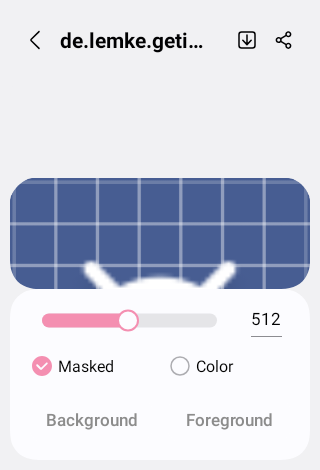
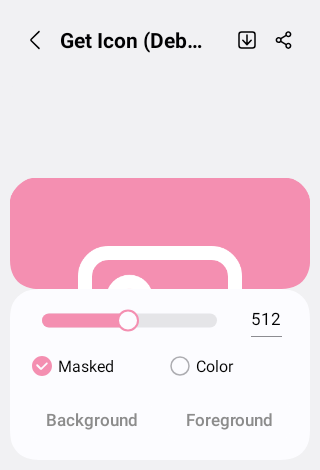
test: use PackageManager.getApplicationInfo in IconActivityScreenshotTest
Provides realistic ApplicationInfo (label, icon path, flags) instead of
a manually constructed bare object with only packageName set.

Changed region(s): [[0.0312, 0.3574, 0.9688, 0.6255], [0.1875, 0.0596, 0.5312, 0.1191], [0.5312, 0.0596, 0.625, 0.1191]]

diff --git a/app/src/test/java/de/lemke/geticon/ui/IconActivityScreenshotTest.kt b/app/src/test/java/de/lemke/geticon/ui/IconActivityScreenshotTest.kt
@@ -17,7 +17,6 @@
 package de.lemke.geticon.ui
 
 import android.content.Intent
-import android.content.pm.ApplicationInfo
 import androidx.test.core.app.ActivityScenario
 import androidx.test.core.app.ApplicationProvider
 import com.github.takahirom.roborazzi.captureRoboImage
@@ -34,12 +33,10 @@ import org.robolectric.annotation.GraphicsMode
 class IconActivityScreenshotTest {
     @Test
     fun iconActivity_default() {
-        val appInfo =
-            ApplicationInfo().apply {
-                packageName = ApplicationProvider.getApplicationContext<App>().packageName
-            }
+        val context = ApplicationProvider.getApplicationContext<App>()
+        val appInfo = context.packageManager.getApplicationInfo(context.packageName, 0)
         val intent =
-            Intent(ApplicationProvider.getApplicationContext(), IconActivity::class.java)
+            Intent(context, IconActivity::class.java)
                 .putExtra(IconActivity.KEY_APPLICATION_INFO, appInfo)
         ActivityScenario.launch<IconActivity>(intent).use { scenario ->
             scenario.onActivity { activity ->